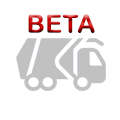
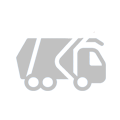
cambios ios y splash screen login

Changed region(s): [[0.225, 0.1, 0.65, 0.275], [0.65, 0.1, 0.8, 0.275]]

diff --git a/lib/src/pages/section/request_list_section.dart b/lib/src/pages/section/request_list_section.dart
@@ -3,7 +3,6 @@ import 'dart:ui';
 
 import 'package:asdn/src/services/azure_storage_sdn.dart';
 import 'package:flutter/material.dart';
-import 'package:firebase_storage/firebase_storage.dart';
 import 'package:flutter/scheduler.dart';
 import 'package:flutter/services.dart';
 import 'package:flutter_dotenv/flutter_dotenv.dart';
@@ -47,7 +46,6 @@ class _RequestListSectionState extends State<RequestListSection>
   bool isSubmit = false;
   bool canPressRegisterBtn = true;
   bool loading = false;
-  Reference ref = FirebaseStorage.instance.ref();
   RequestBloc requestBloc;
   final RequestService requestService = RequestService();
   final AuthenticationService authenticationService = AuthenticationService();

diff --git a/lib/main.dart b/lib/main.dart
@@ -10,7 +10,7 @@ import 'src/bloc/map/map_bloc.dart';
 import 'src/bloc/register/register_bloc.dart';
 import 'src/bloc/search/search_bloc.dart';
 import 'src/helpers/helpers.dart';
-import 'src/pages/loading_page.dart';
+import 'src/pages/login_page.dart';
 import 'src/services/auth_service.dart';
 import 'src/share_prefs/preferences_storage.dart';
 
@@ -60,7 +60,7 @@ class MyApp extends StatelessWidget {
         theme: Constants.lighTheme(context),
         debugShowCheckedModeBanner: false,
         title: Constants.appName,
-        initialRoute: LoadingPage.routeName,
+        initialRoute: LoginPage.routeName,
         routes: getApplicationsRoutes(),
       ),
     );
